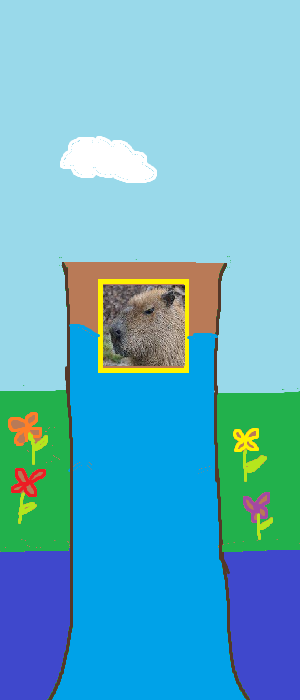
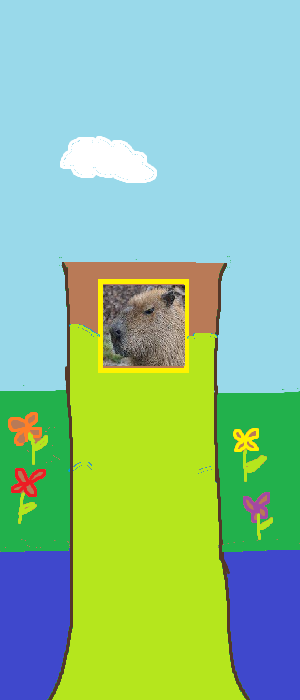
Added story to the Woods episodes
Added robot dialogues.
Also updated Woods2 images so that the liquid does not resemble water.

Changed region(s): [[0.18, 0.45, 0.84, 1.0]]

diff --git a/Woods1.html b/Woods1.html
@@ -227,8 +227,24 @@
 
 			<div id="WellDoneDiv" style="display: none;">
 				<h3 class="narrate">
-					Po kliknięciu odpowiednich strzałek robot się resetuje.
+					Słyszysz jeszcze kilka dziwnych dźwięków, kilka kliknięć i zgrzytów, po czym... cisza. Wszystkie światełka robota gasną, jednak już po chwili znów wracają do życia. 
+					Głowa robota się lekko unosi, rozgląda się on wokoło i zauważa Ciebie.
 				</h3>
+				<h3 class="robot">Cześć.</h3>
+				<h3 class="narrate">
+					Przez moment nie jesteś pewna co odpowiedzieć, ale nie musisz myśleć długo, jako że robot sam ponownie się odzywa
+				</h3>
+				<h3 class="robot">Dzięki za przywrócenie moich ustawień do ustawień fabrycznych. Coś musiało pójść ostatnio nie tak i większość moich systemów przestała działać. Próbowałem 
+					przekazać ci kombinację potrzebną do resetu i najwyraźniej się udało! Mam na imię J4R-V15, ale możesz mówić mi Jan.
+				</h3>
+				<h3 class="narrate">
+					Lekko zdezorientowana przyjmujesz wszystkie te informacje ze spokojem. Jednak Jan nagle z podekscytowaniem zaczyna mówić
+				</h3>
+				<h3 class="robot">
+					No jasne! Przecież wiem po co tu jesteś! Musisz szukać fragmentu klucza do legendarnego skarbca, prawda? Dlaczego inaczej wpadłabyś do tego lasu ze środka nieba. 
+					Choć za mną! Wiem jak ci pomóc.
+				</h3>
+				<h3 class="narrate">J4R-V15 rusza ścieżką będąc bardzo pewnym siebie. Chyba nie masz już wyboru jak tylko podążyć za nim.</h3>
 				<button id="ForwardButton" class="button-5" style="display: block; width: 250px;" onclick="window.location.href='Woods2.html'">Podążaj za robotem</button>
 			</div>
 		</div>

diff --git a/Woods3.html b/Woods3.html
@@ -142,10 +142,17 @@
 		<h1 id="welcome-p" class="miejsce-W">Furtka Leśna</h1>
 		<br>
 		<h3 class="narrate">
-			Ostateczny dialog z robotem.
+			Po rozwiązanej zagadce wracasz do Jana.
 		</h3>
+		<h3 class="robot">Wooppidibuppidoo! Wiedziałem, że Ci się uda. Widziałem to w Twoich oczach od początku. No, może przez moment się bałem, że ten obrazek kapibary
+			może Cię nieco rozproszyć.. ale udało się! Teraz, widzisz, za tę próbę należy ci się fragment klucza, ale.. bardzo rzadko trafiają tu tak wyjątkowe osobniki jak ty, 
+			zwłaszcza przez dość losową dziurę w czasoprzestrzeni. Czy miałabyś coś przeciwko temu, żebym zbadał zachowanie Twojego gatunku na Twoim przykładzie?
+		</h3>
+		<h3 class="narrate">Zanim zdążysz odpowiedzieć, Jan już się cieszy</h3>
+		<h3 class="robot">Nie masz nic przeciwko? Super! Nie potrwa to zbyt długo. Jest to dość prosty eksperyment myślowy. Zaczynamy!</h3>
+
 		<h3 class="robot">Wyobraź sobie, że masz piękny ogród, w którym posadziłaś 100 kwiatków. Któregoś dnia przyleciała jednak
-			grupa niebezpiecznych owadów, która może zniszczyć te kwiatki. Możesz albo zaryzykować życie wszystkich kwiatków, próbując zwalczyć owady 
+			grupa niebezpiecznych owadów, która może zniszczyć te kwiatki. Możesz zaryzykować życie wszystkich kwiatków, próbując zwalczyć owady 
 			klasycznymi metodami ALBO możesz przesadzić 20 kwiatków, przeznaczając je na pożarcie przez owady.
 		</h3>
 		<div class="button2Div">

diff --git a/Woods2.html b/Woods2.html
@@ -62,7 +62,14 @@
 		<h1 id="welcome-p" class="miejsce-W">Furtka Leśna</h1>
 		<br>
 		<h3 class="narrate">
-			Dialog z robotem.
+			Po niezbyt wyczerpującym spacerze docieracie w końcu na polanę. Wtem odzywa się Jan
+		</h3>
+		<h3 class="robot">Jesteśmy na miejscu! Zanim doprowadzę cię do fragmentu klucza, muszę się upewnić, że nie jesteś pierwszym lepszym przypadkowym człowiekiem, ale 
+			że jesteś godna nagrody, która na ciebie czeka. Dookoła na polanie znajdują się cztery pnie drzew. W środku nich znajdują się żetony symbolizujące zwierzęta.
+			Twoim zadaniem jest dolanie zielonej mazi do pni w taki sposób, aby każde zwierzę znalazło się na odpowiednim miejscu. Skąd wziąć maź? Z kałuży, o tam.
+		</h3>
+		<h3 class="narrate">Podchodzisz do każdego z pni i rzeczywiście w środku zauważasz żetony. Widzisz także, że wszystkie są zanużone w wodzie, na poziomie której obecnie 
+			spoczywają żetony. No dobra, nic, tylko trzeba się zabrać do roboty.
 		</h3>
 		<div class="button4div">
 			<img id="BucketImg1" src="WoodsImg/Trunk0_1.png" alt="obrazek1">

diff --git a/WoodsFinal.html b/WoodsFinal.html
@@ -34,7 +34,8 @@
 		<h1 id="welcome-p" class="miejsce-W">Furtka Leśna</h1>
 		<br>
 		<h3 class="narrate">
-			J4R-V15 trzyma fragment klucza w jednej ze swoich łapek. Wystarczy po niego sięgnąć.
+			J4R-V15 trzyma fragment klucza w jednej ze swoich łapek. Cały ten czas miał go przy sobie! Może następnym razem łatwiej będzie rozłożyć kolejnego takiego robota na części 
+			pierwsze... No ale dobrze, osiągnęłaś cel, teraz wystarczy tylko po niego sięgnąć.
 		</h3>
 
 		<button class="button-5" onclick="takeKey()">Sięgnij</button>
